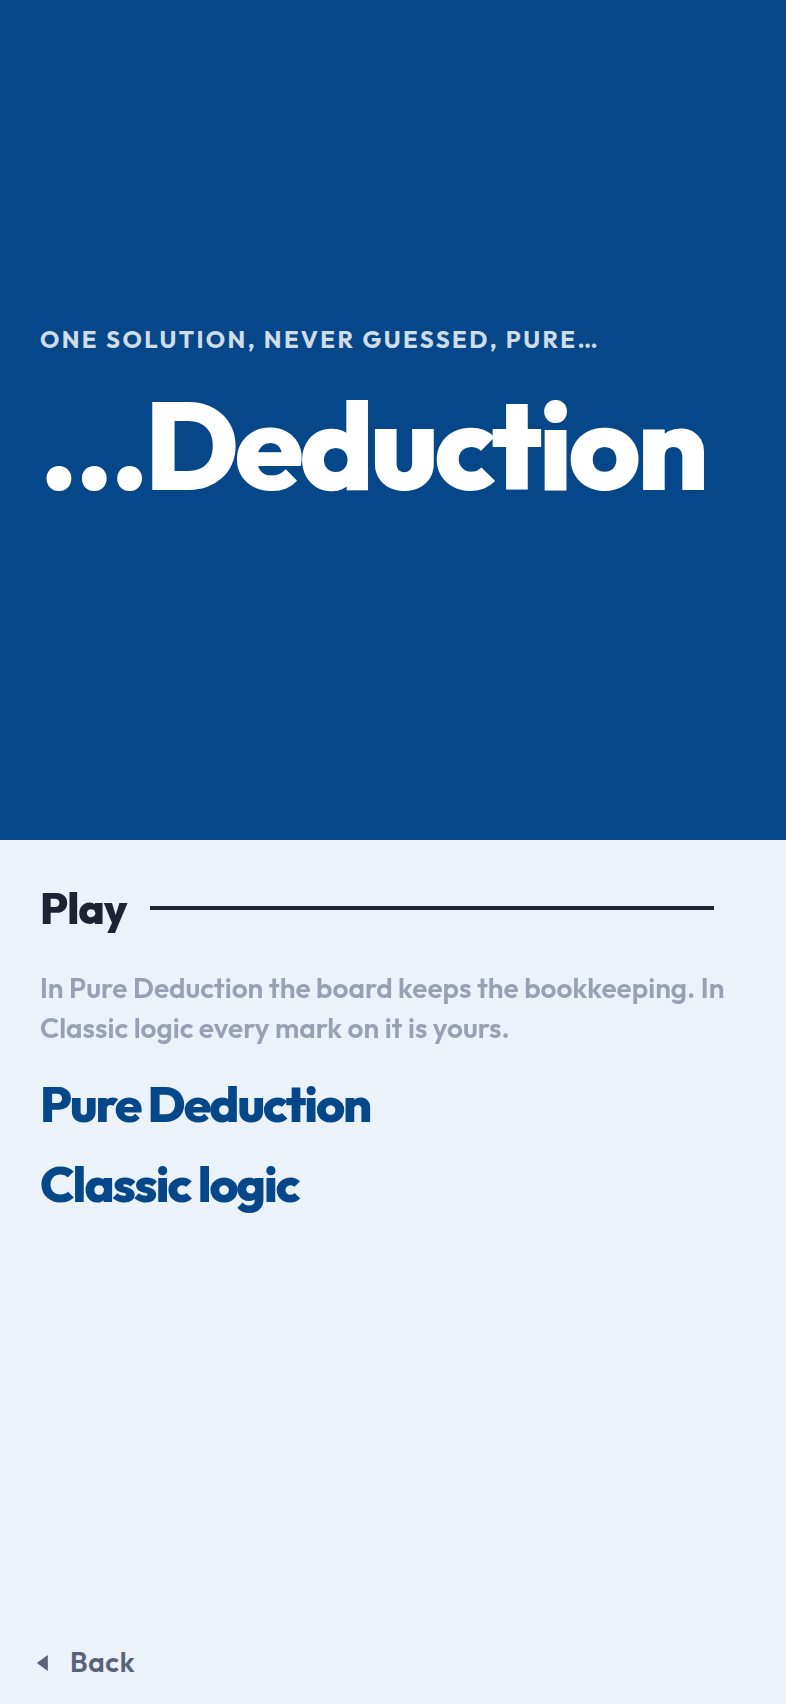
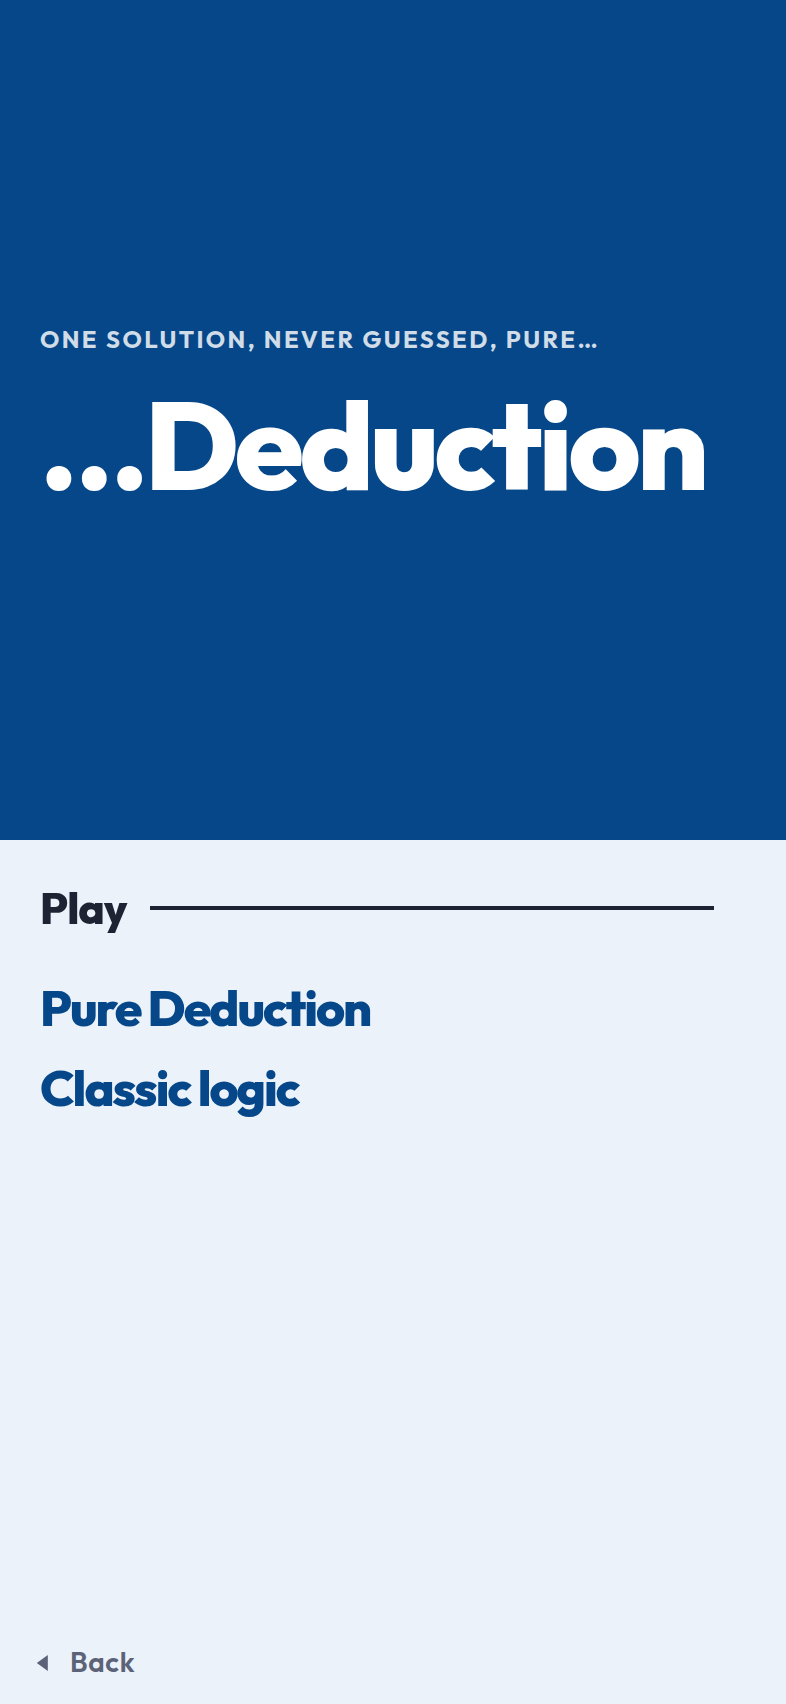
Nothing under the heading on the ways of playing
The menu is a list of words the same size with nothing set under them, the way
every menu before a board is, and the line explaining the two names made it a
different screen. What each one means is read out as its hint instead, the way
a difficulty's shape is.

Claude-Session: https://claude.ai/code/session_01RrDehsX5bvPAsFa5dYERaj

Changed region(s): [[0.0305, 0.5599, 0.916, 0.7154]]

diff --git a/src/screens/MenuScreen.tsx b/src/screens/MenuScreen.tsx
@@ -4,10 +4,9 @@ import { ScrollView, StyleSheet, View } from 'react-native';
 import { BackLink } from '../ui/BackLink';
 import { Choice } from '../ui/Choice';
 import { RuledTitle } from '../ui/RuledTitle';
-import { Text } from '../ui/Text';
 import { TitlePanel } from '../ui/TitlePanel';
 import { useStyles } from '../ui/ThemeProvider';
-import { space, type, type Palette } from '../ui/theme';
+import { space, type Palette } from '../ui/theme';
 
 export interface Entry {
   /** Stable across renders; the label is words and can be translated. */
@@ -20,15 +19,6 @@ export interface Entry {
 interface Props {
   title: string;
   entries: Entry[];
-  /**
-   * One line under the heading, for a menu whose choices cannot explain
-   * themselves. A menu is a list of words the same size and a second line under
-   * each of them would be a different screen — but "Pure Deduction" and
-   * "Classic logic" name two games rather than two sizes of one, and a player
-   * who has met neither has nothing to go on. One sentence for the screen says
-   * it without turning every row into a paragraph.
-   */
-  note?: string;
   backLabel: string;
   onBack: () => void;
 }
@@ -56,7 +46,7 @@ interface Props {
  * No list is long enough to scroll on any phone the app is built for; it
  * scrolls anyway, for the reader who has turned the system text size up.
  */
-export function MenuScreen({ title, entries, note, backLabel, onBack }: Props) {
+export function MenuScreen({ title, entries, backLabel, onBack }: Props) {
   const styles = useStyles(makeStyles);
 
   return (
@@ -66,8 +56,6 @@ export function MenuScreen({ title, entries, note, backLabel, onBack }: Props) {
       <View style={styles.bottom}>
         <ScrollView contentContainerStyle={styles.content} showsVerticalScrollIndicator={false}>
           <RuledTitle>{title}</RuledTitle>
-
-          {note ? <Text style={styles.note}>{note}</Text> : null}
 
           {entries.map((entry) => (
             <Choice
@@ -106,10 +94,5 @@ const makeStyles = (palette: Palette) =>
       paddingHorizontal: space(5),
       paddingTop: space(5),
       paddingBottom: space(5),
-    },
-    note: {
-      ...type.note,
-      color: palette.inkFaint,
-      marginBottom: space(2),
     },
   });

diff --git a/src/screens/__tests__/screens.test.tsx b/src/screens/__tests__/screens.test.tsx
@@ -146,8 +146,7 @@ describe('the front door', () => {
 /**
  * The menu Play opens: the same screen the lessons use, given the two ways a
  * numbered game can be played. Mounted the way App mounts it, since what is on
- * it is the point — two names a first-time player has not met, and the line
- * that says what they mean.
+ * it is the point.
  */
 describe('the two ways of playing', () => {
   it('offers both, and says what the choice is', () => {
@@ -155,7 +154,6 @@ describe('the two ways of playing', () => {
     stage(
       <MenuScreen
         title={t('modes.title')}
-        note={t('modes.note')}
         entries={MODES.map((mode) => ({
           key: mode.id,
           label: mode.name,
@@ -170,14 +168,9 @@ describe('the two ways of playing', () => {
     expect(header('Play')).toBeOnTheScreen();
     expect(button('Pure Deduction')).toBeEnabled();
     expect(button('Classic logic')).toBeEnabled();
-    // Two names that cannot explain themselves, so the screen explains them
-    // once rather than putting a paragraph under each.
-    expect(
-      screen.getByText(
-        'In Pure Deduction the board keeps the bookkeeping. In Classic logic every mark on it is yours.',
-      ),
-    ).toBeOnTheScreen();
-    // And each is read out with its own line, for somebody being read the page.
+    // A menu is a list of words the same size, with nothing set under them: what
+    // each one means is read out rather than printed, the way a difficulty's
+    // shape is.
     expect(button('Classic logic').props.accessibilityHint).toBe(
       'Every mark on the board is yours',
     );

diff --git a/src/i18n/strings.generated.ts b/src/i18n/strings.generated.ts
@@ -220,7 +220,6 @@ export const STRINGS = {
   modes: {
     title: 'Play',
     back: 'Back',
-    note: 'In Pure Deduction the board keeps the bookkeeping. In Classic logic every mark on it is yours.',
     pure: {
       name: 'Pure Deduction',
       hint: 'The board keeps the bookkeeping',
@@ -5267,7 +5266,6 @@ export type StringKey =
   | 'modes.classic.hint'
   | 'modes.classic.name'
   | 'modes.locked'
-  | 'modes.note'
   | 'modes.pure.hint'
   | 'modes.pure.name'
   | 'modes.title'

diff --git a/App.tsx b/App.tsx
@@ -267,7 +267,6 @@ function Shell({ settings }: { settings: ReturnType<typeof useSettings> }) {
         ) : screen === 'mode' ? (
           <MenuScreen
             title={t('modes.title')}
-            note={t('modes.note')}
             backLabel={t('modes.back')}
             entries={MODES.map((option) => ({
               key: option.id,
